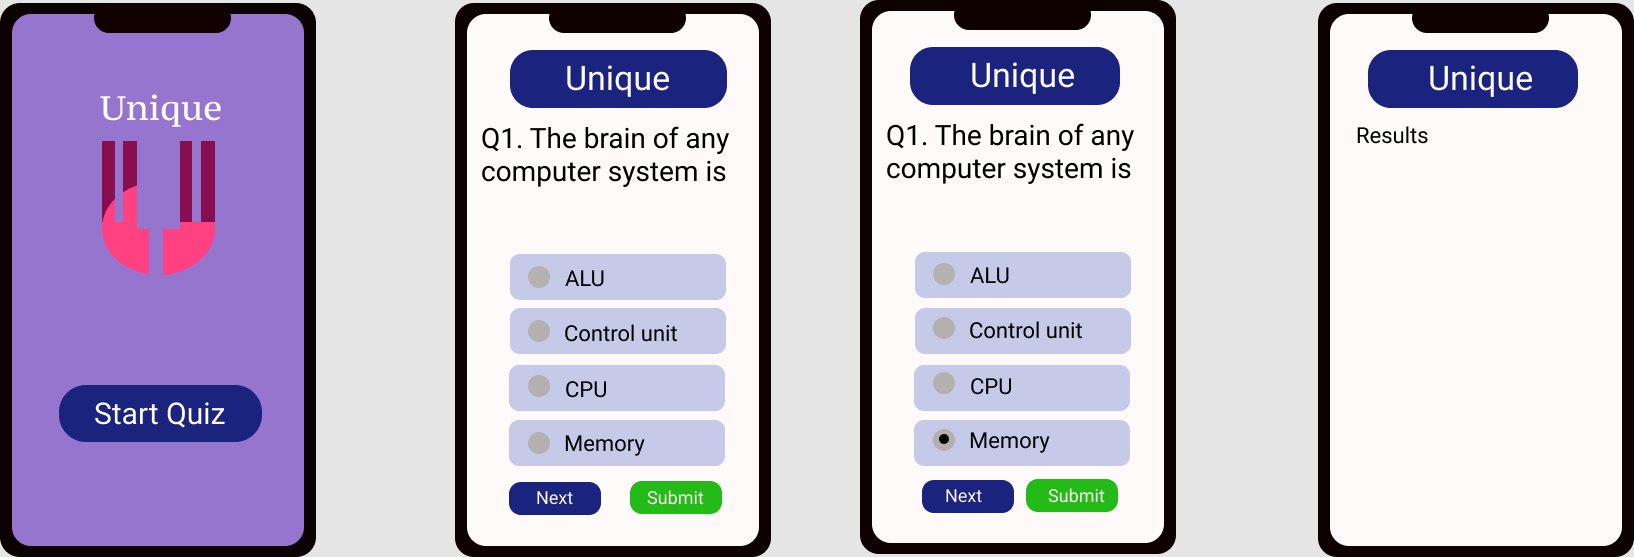
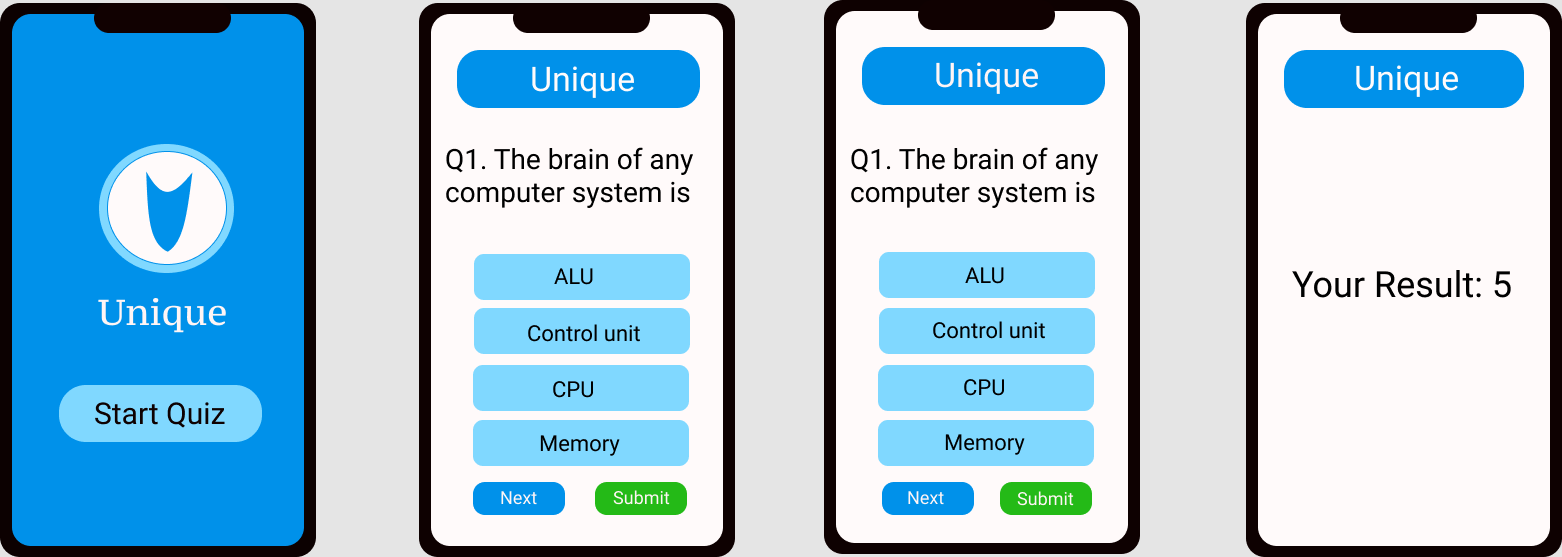
design changed

diff --git a/style.css b/style.css
@@ -1,9 +1,8 @@
 :root{
-    --color-1:#9575CD;
-    --color-2:#1A237E;
+    --color-1:#0091EA;
+    --color-2:#80D8FF;
     --color-3:white;
     --color-4:black;
-    --color-5:#C5CAE9;
     --color-6:rgb(57, 221, 57);
     --font-family-1: Roboto;
 }
@@ -65,7 +64,7 @@
     border-radius: 30px;
     font-family: Roboto;
     font-size: 30;
-    color:var(--color-3);
+    color:var(--color-4);
     cursor: pointer;
 }
 .start{
@@ -87,7 +86,7 @@
     display: flex;
     text-align: center;
     align-items: center;
-    background-color: var(--color-2);
+    background-color: var(--color-1);
     border-radius: 40px;
 }
 .home{
@@ -118,7 +117,7 @@
     font-family: var(--font-family-1);
 }
 .radio{
-    background-color:var(--color-5);
+    background-color:var(--color-2);
     border-radius: 10px;
 
 }

diff --git a/second.html b/second.html
@@ -18,8 +18,7 @@
             <div class="rect-2">
                     <!--for unique title-->
                     <div class="row header">
-                        <div class="col-3 glyphicon home">&#xe236;</div>
-                        <div class="col-9 uni">Unique</div>
+                        <div class="col uni">Unique</div>
                     </div>
                     <!-- Display question -->
                     <div class="row que" id="showQues">Q1</div>
